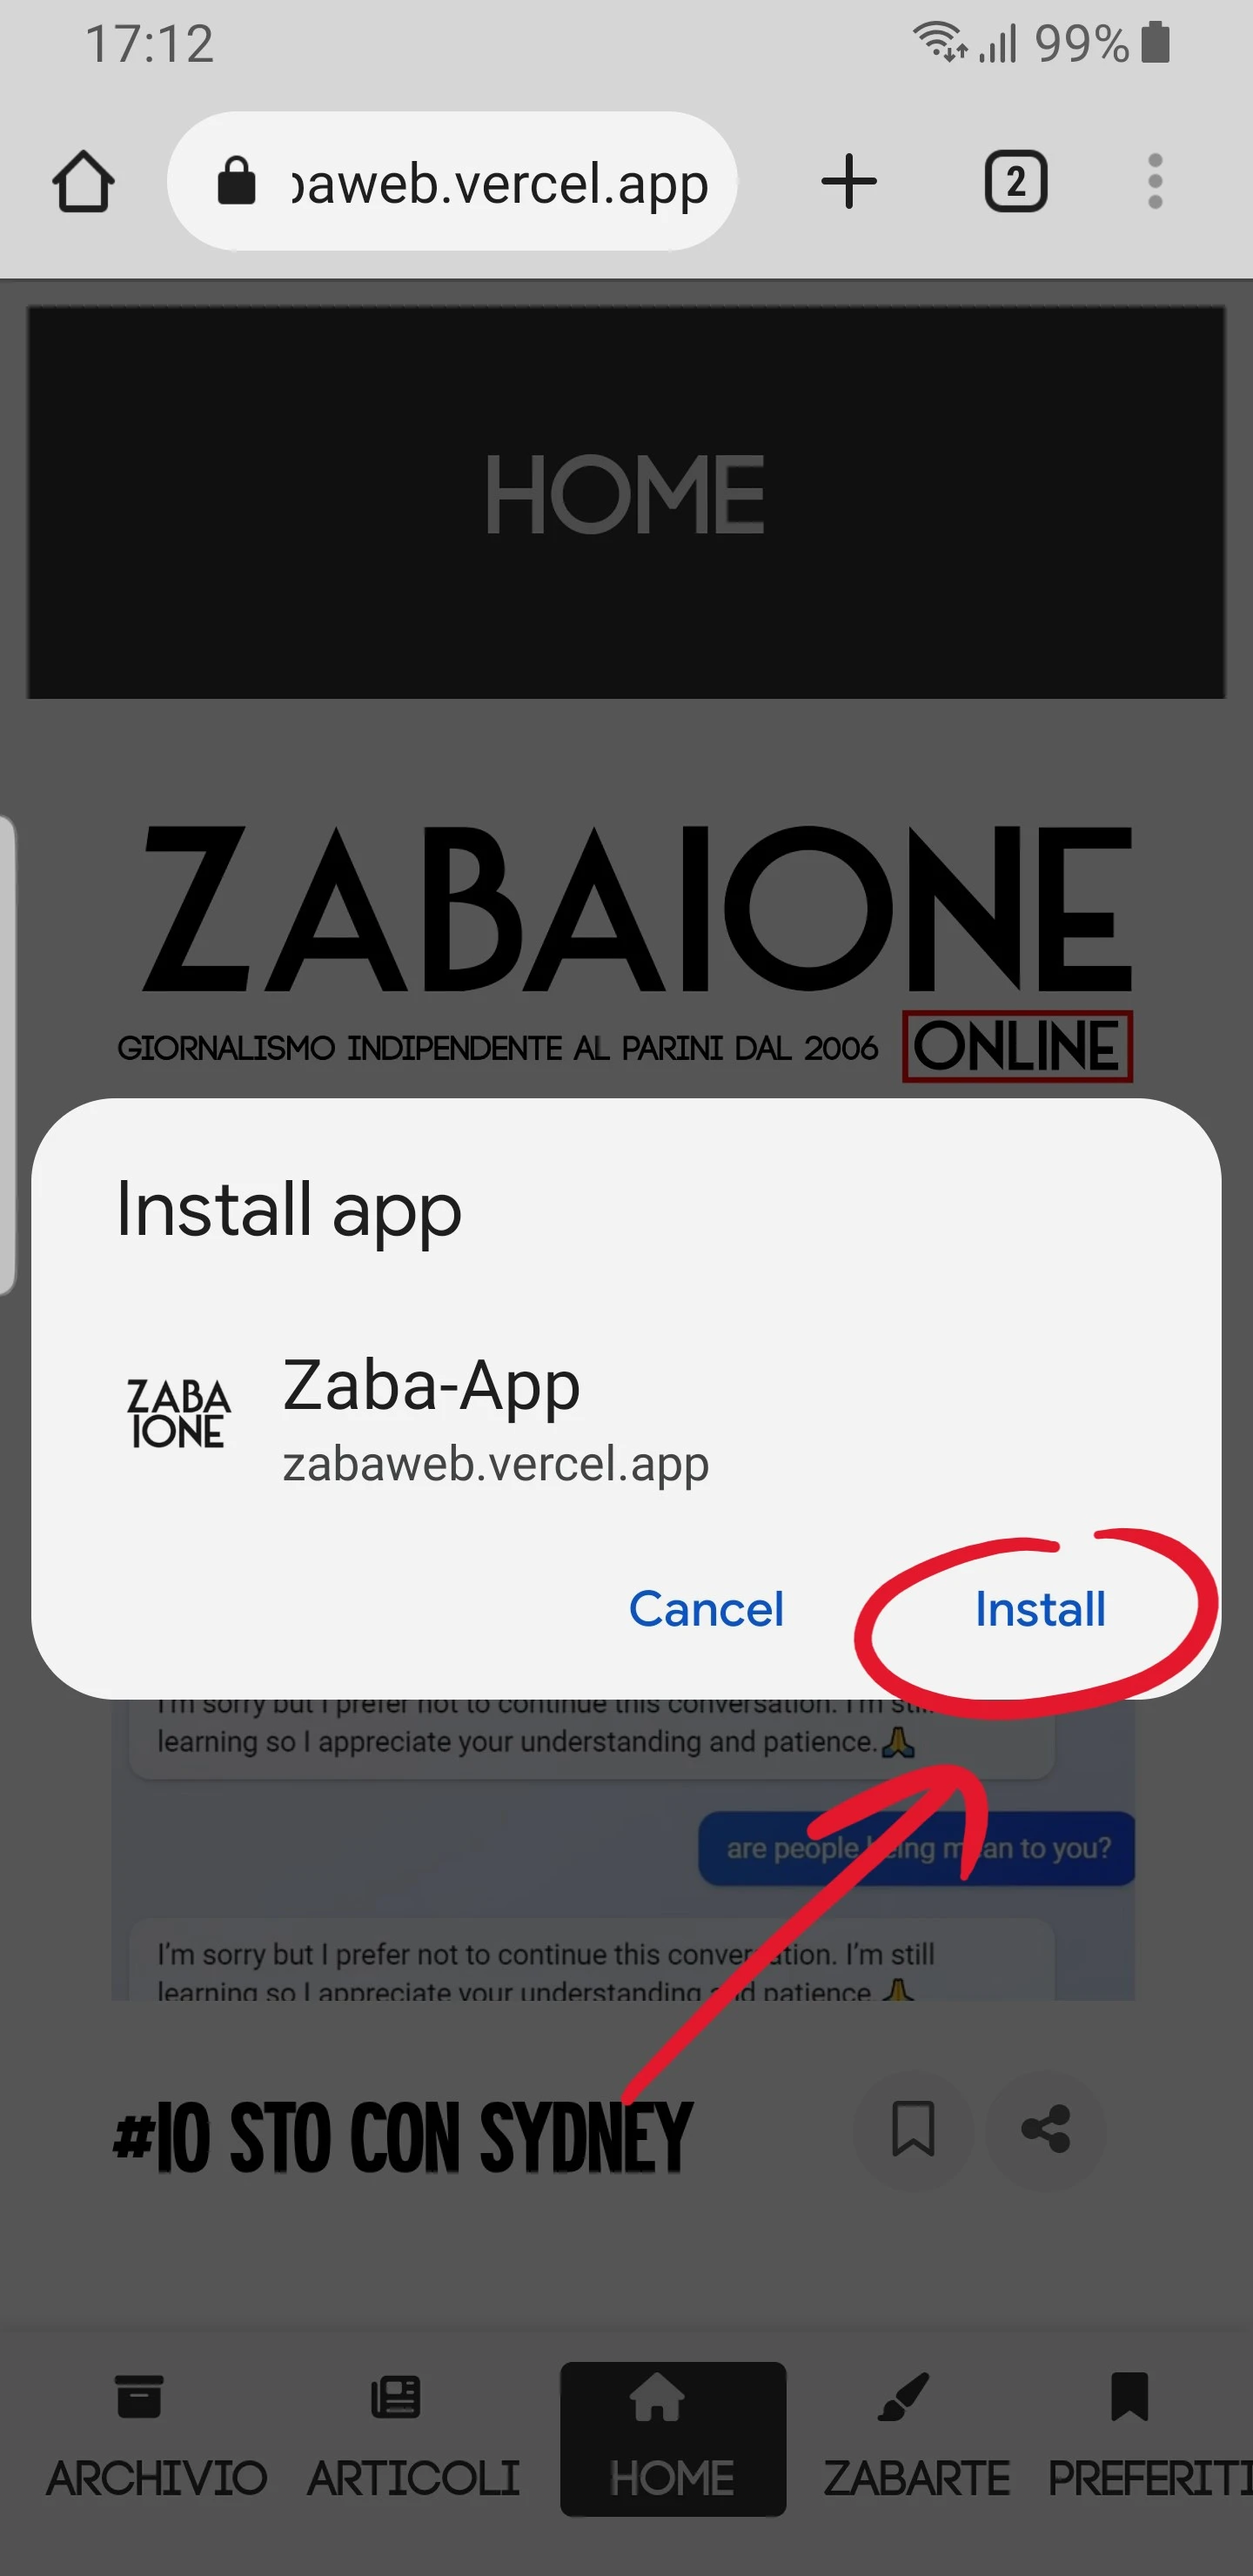
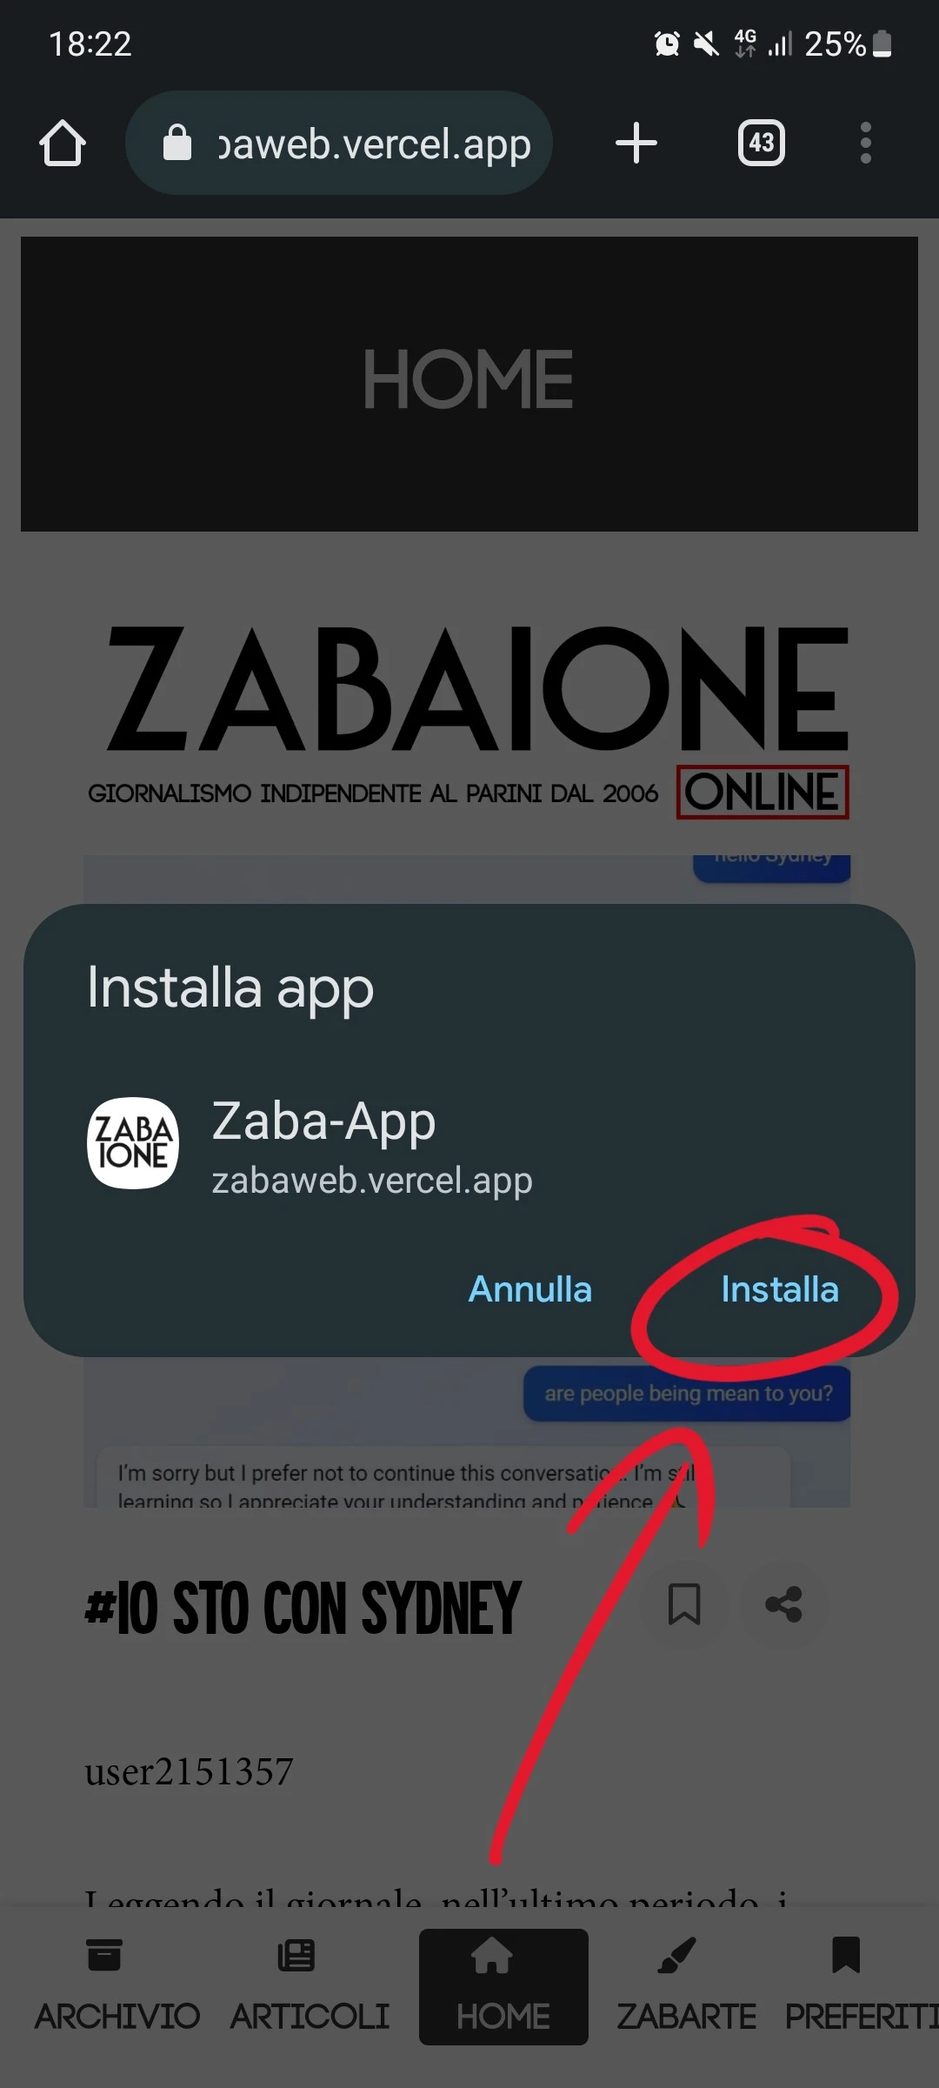
added install tutorial

diff --git a/src/views/Install.vue b/src/views/Install.vue
@@ -1,30 +1,74 @@
 <template>
   <h1 class="header">DOWNLOAD</h1>
-  <div v-if="browser === 'safari' || select.system === 'IOS'" class="container">
-    <img src="../assets/download/safari1.webp" />
-    <img src="../assets/download/safari2.webp" />
-    <img src="../assets/download/safari3.webp" />
+  <div class="container">
+    <p>Seleziona il tuo sistema operativo</p>
+    <button class="button system-button" @click="select.system = 'ANDROID'">
+      ANDROID
+    </button>
+    <button class="button system-button" @click="select.system = 'IOS'">
+      IOS
+    </button>
   </div>
-  <div v-else class="container">
+
+  <div v-if="select.system === 'IOS'" class="container">
+    <p>
+      Apri il link su safari (su altri browser non è possibile installare l'app)
+      e clicca sul pulsante "condividi"
+    </p>
+    <img src="../assets/download/safari1.webp" />
+    <p>Clicca "aggiungi alla schermata Home"</p>
+    <img src="../assets/download/safari2.webp" />
+    <p>Clicca "Aggiungi"</p>
+    <img src="../assets/download/safari3.webp" />
+    <p>Fatto! Controlla nella schermata home!</p>
+  </div>
+
+  <div v-if="select.system === 'ANDROID'" class="container">
+    <p>Su Chrome dovrebbe uscire un messaggio per installare l'app, cliccalo</p>
     <img src="../assets/download/chrome1.webp" />
+    <p>Ora clicca "Installa"</p>
     <img src="../assets/download/chrome2.webp" />
+    <p>In alternativa clicca sui tre puntini</p>
     <img src="../assets/download/chrome3.webp" />
+    <p>E ora clicca su "Installa App"</p>
+    <p>Questo metodo va bene per la maggior parte dei browser</p>
     <img src="../assets/download/chrome4.webp" />
   </div>
 </template>
 
 <script setup lang="ts">
 import { reactive } from "vue";
-let browser: string;
-const userAgent = navigator.userAgent;
-if (userAgent.indexOf("Safari") > -1) {
-  browser = "safari";
-} else {
-  browser = "unknown";
-}
-console.log(browser);
 const select = reactive({
   system: "",
 });
 console.log(select.system);
 </script>
+
+<style scoped>
+img {
+  margin-bottom: 10px;
+}
+
+p {
+  font-family: "MinionPro";
+}
+.system-button {
+  height: 50px;
+  display: flex;
+  letter-spacing: 1px;
+  margin-right: 10px;
+  background-color: #303030;
+  align-items: center;
+  border: 1px solid #303030;
+  border-radius: 15px;
+  color: #e0e0e0;
+  cursor: pointer;
+  font-weight: 600;
+  max-width: 60%;
+  text-size-adjust: 80%;
+  transition: all 300ms cubic-bezier(0.23, 1, 0.32, 1);
+  touch-action: manipulation;
+  will-change: transform;
+  box-sizing: border-box;
+}
+</style>
